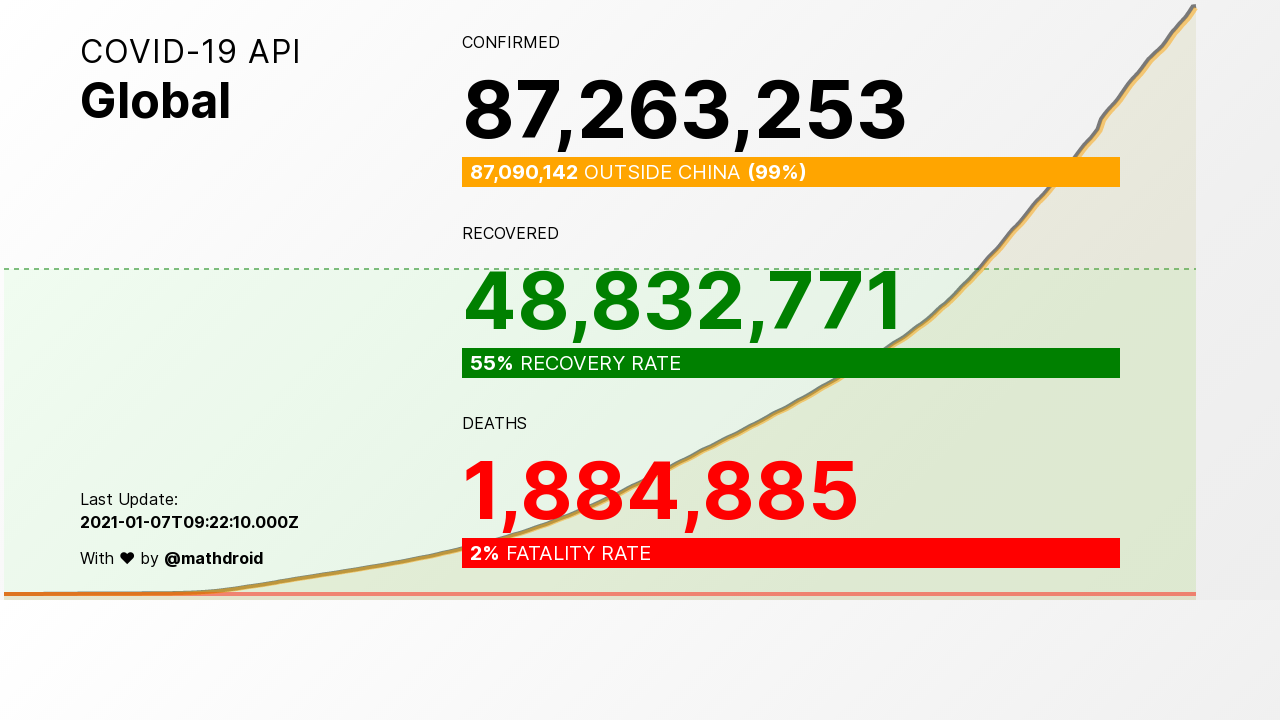
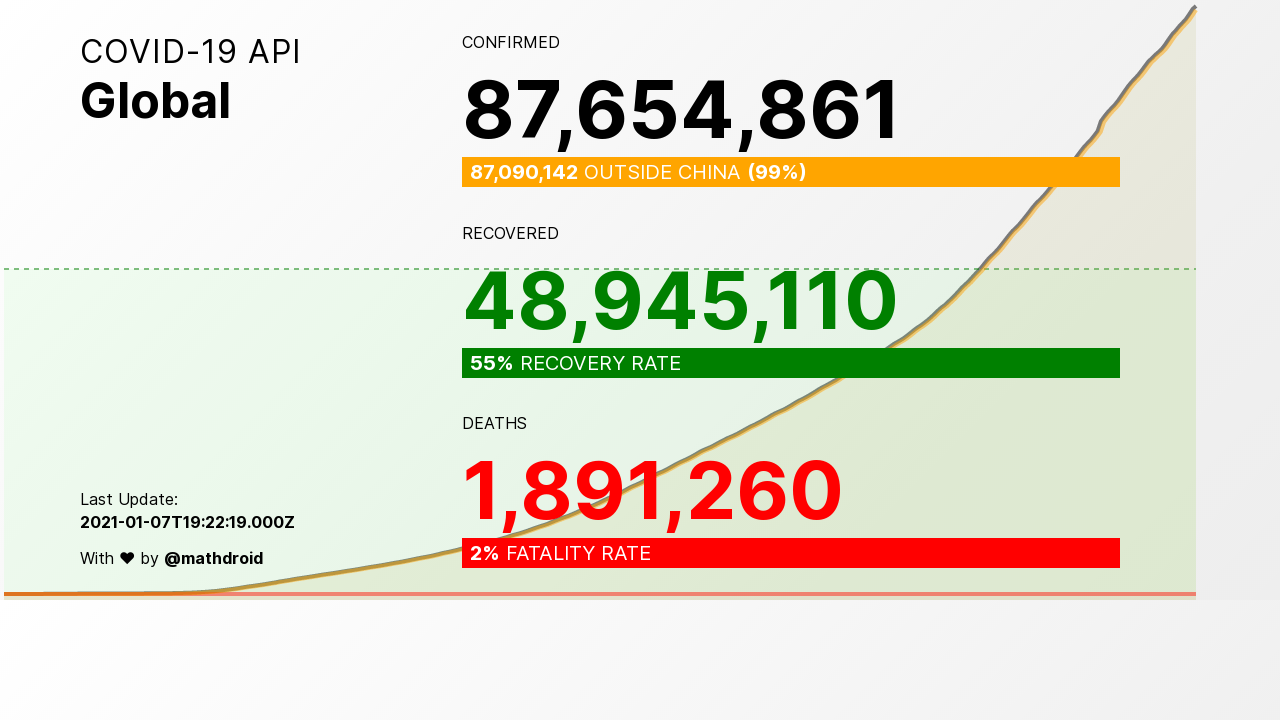
Add changes

diff --git a/README.md b/README.md
@@ -1,6 +1,6 @@
 # store covid daily api as json data
 
-- last cronjob : Thursday, 07 January 2021 10:20:45
+- last cronjob : Thursday, 07 January 2021 20:09:56
 - status og cron : success
 - status daily cron : success
       
